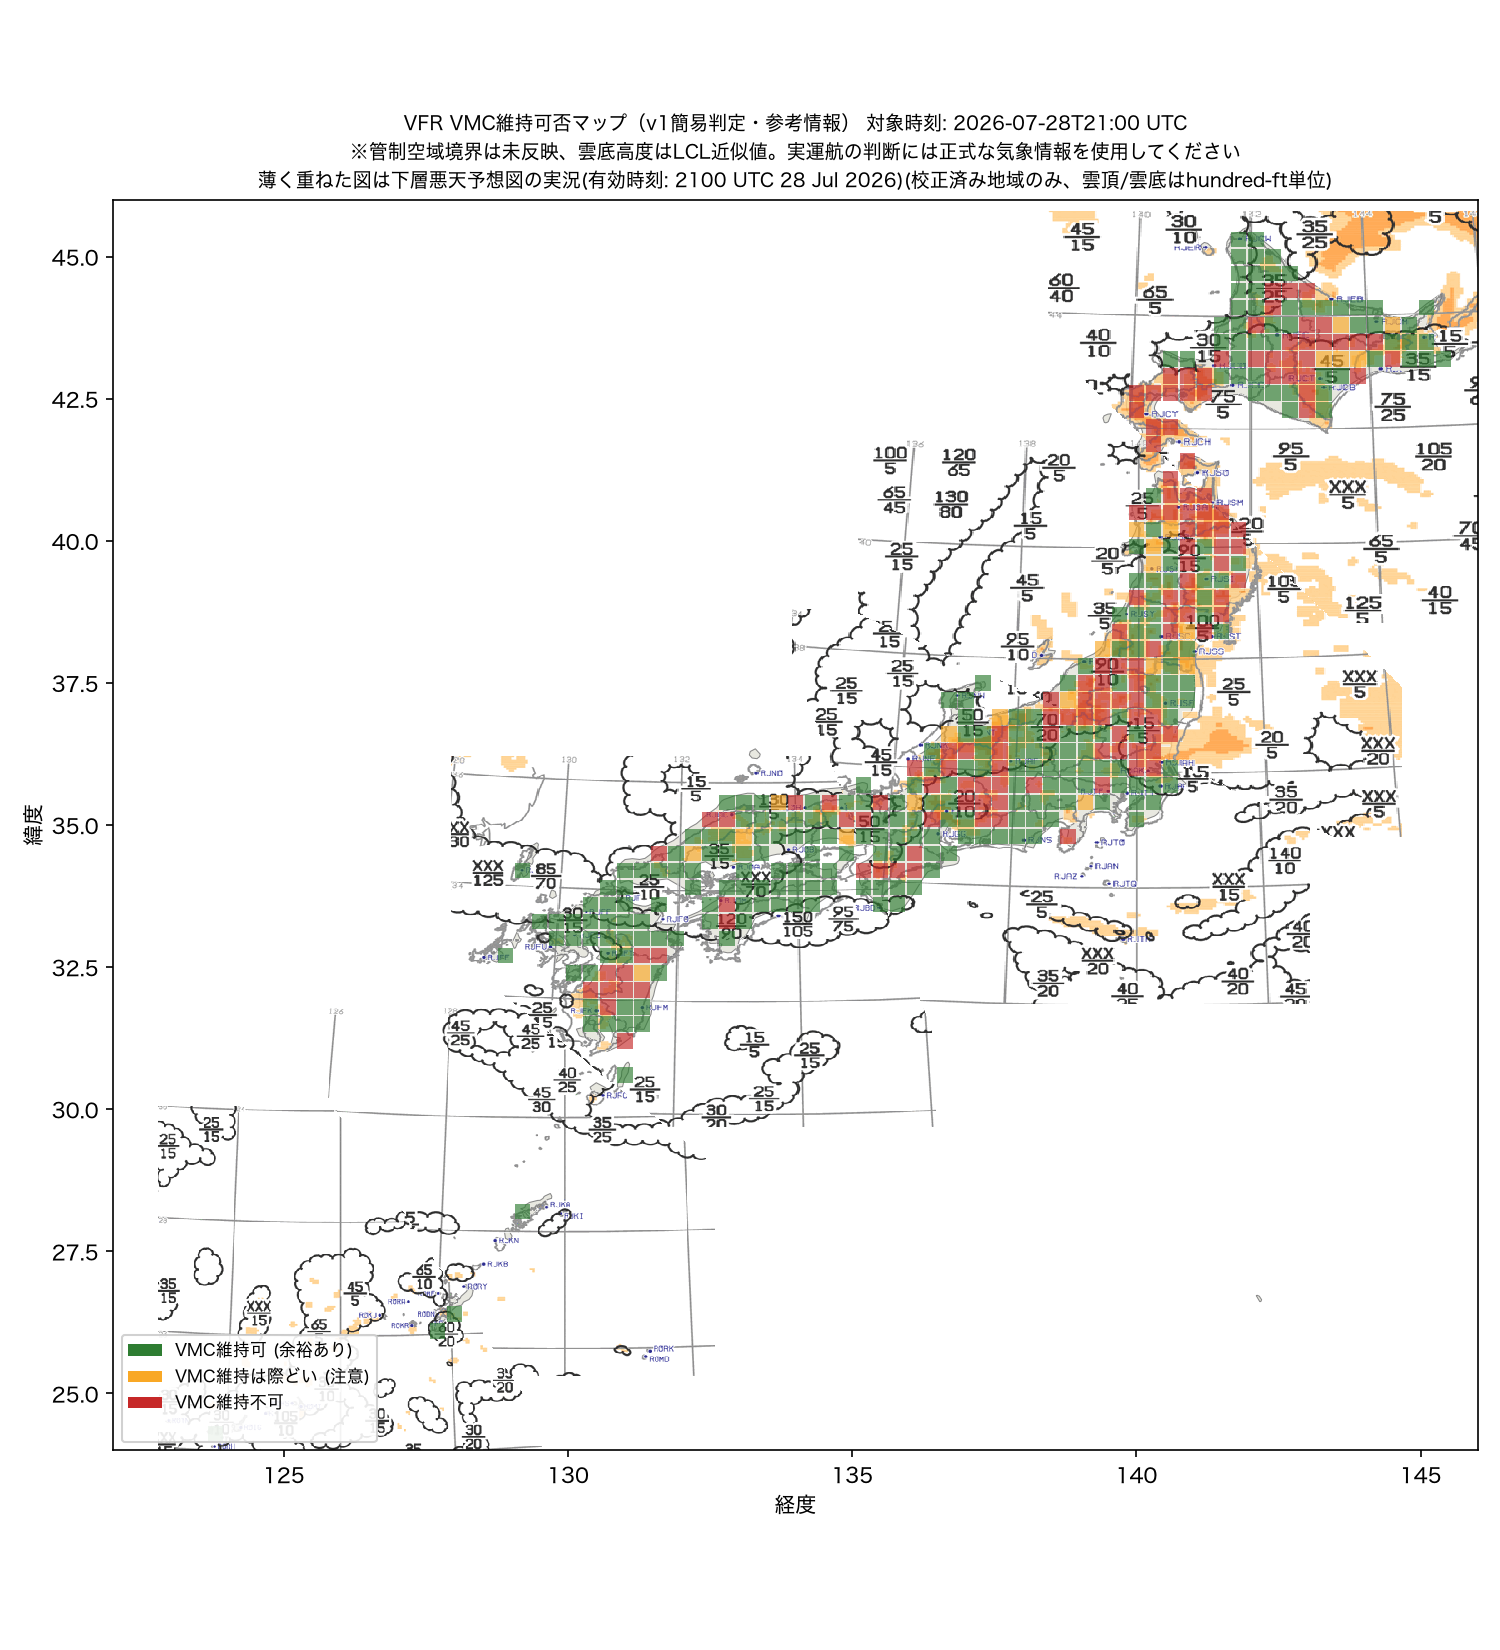
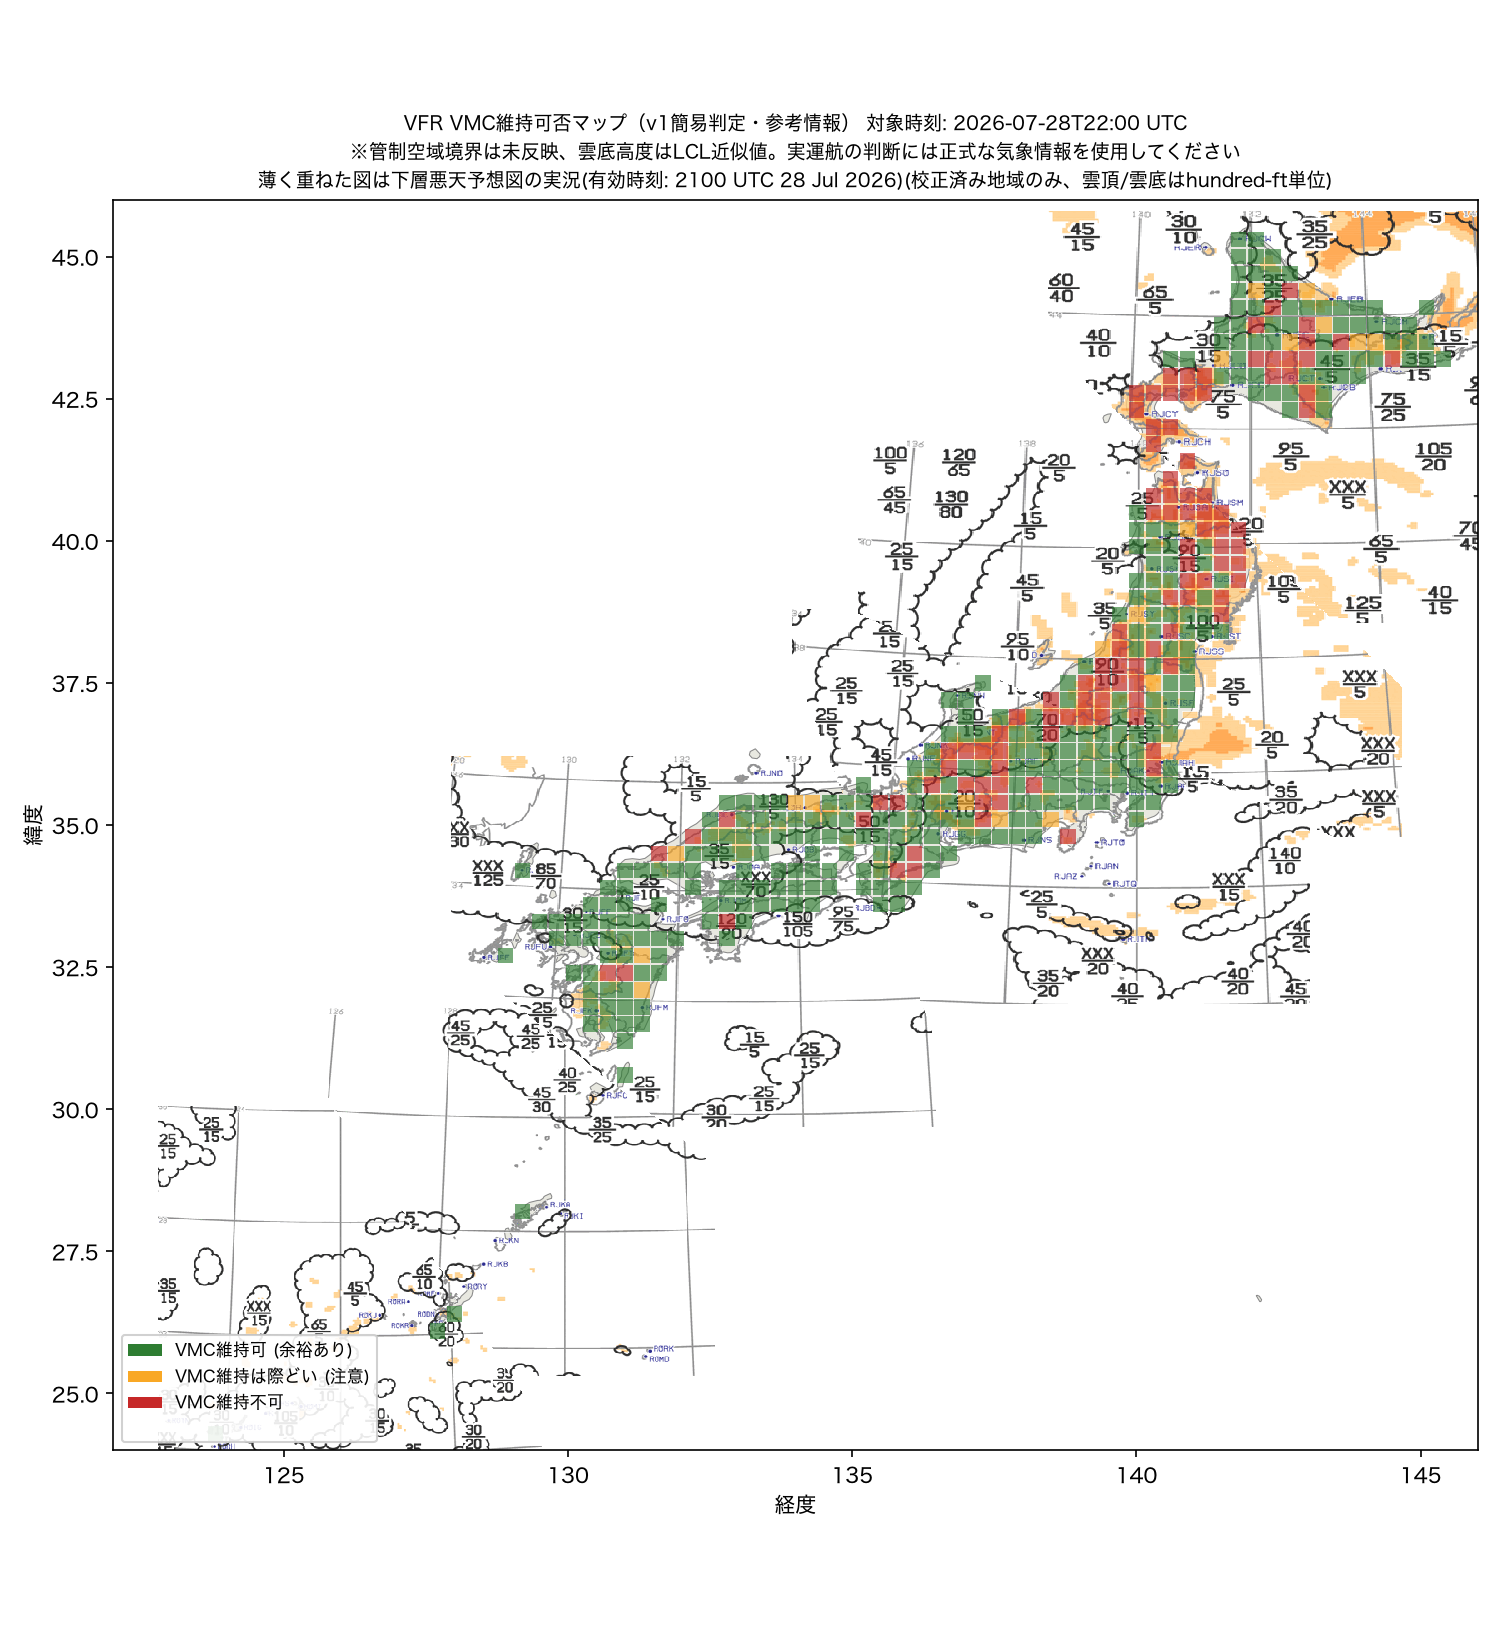
Update VMC map

diff --git a/index.html b/index.html
@@ -3,7 +3,7 @@
 <head>
 <meta charset="utf-8">
 <meta name="viewport" content="width=device-width, initial-scale=1">
-<title>VFR VMC 維持可否マップ (対象時刻: 2026-07-28T21:00 UTC)</title>
+<title>VFR VMC 維持可否マップ (対象時刻: 2026-07-28T22:00 UTC)</title>
 <style>
   :root {
     --bg: #eef1f5; --surface: #ffffff; --text: #1b2530; --text-muted: #5b6b7d;
@@ -95,7 +95,7 @@
     <h1>VFR VMC 維持可否マップ</h1>
     <p class="subtitle">日本全国、地形と雲底の隙間からVMC(視認気象状態)を維持できるかを判定した参考マップです。v1簡易判定につき、実運航の判断には正式な気象情報を使用してください。</p>
     <div class="chips">
-      <span class="chip">気象予報 対象時刻 <b>2026-07-28T21:00 UTC</b></span>
+      <span class="chip">気象予報 対象時刻 <b>2026-07-28T22:00 UTC</b></span>
       <span class="chip">下層悪天予想図 有効時刻 <b>2100 UTC 28 Jul 2026</b></span>
     </div>
   </header>
